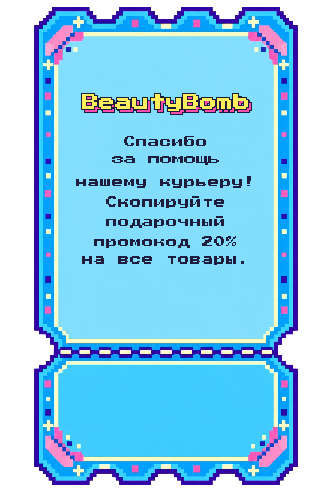
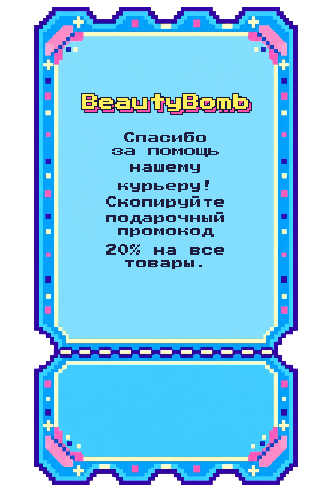
fix: narrow coupon information copy

Changed region(s): [[0.241, 0.4217, 0.7229, 0.5422], [0.2108, 0.2711, 0.753, 0.3916]]

diff --git a/scripts/build_reward_coupon_v7.py b/scripts/build_reward_coupon_v7.py
@@ -33,15 +33,17 @@ TITLE_FONT_SIZE_LOGICAL_PX = 17
 INFO_LINES = (
     "Спасибо",
     "за помощь",
-    "нашему курьеру!",
+    "нашему",
+    "курьеру!",
     "Скопируйте",
     "подарочный",
-    "промокод 20%",
-    "на все товары.",
+    "промокод",
+    "20% на все",
+    "товары.",
 )
-INFO_TOP_LOGICAL_PX = 136
+INFO_TOP_LOGICAL_PX = 132
 INFO_FONT_SIZE_LOGICAL_PX = 12
-INFO_LINE_HEIGHT_LOGICAL_PX = 20
+INFO_LINE_HEIGHT_LOGICAL_PX = 16
 
 PALETTE = {
     "violet": (30, 29, 62, 255),

diff --git a/docs/ASSET_MANIFEST.md b/docs/ASSET_MANIFEST.md
@@ -143,7 +143,7 @@ The owner approved `visual-references/ui-005-intro-composition-v1.png` and its a
 
 `DST-001`, `CHR-001`, and `CHR-003` retain separate immutable generated masters. The integrated recipient is `CHR-003` v1, built from the compact approved `112 × 176` master `visual-references/chr-003-lowpoly-recipient-master-v1.png`; `scripts/build_delivery_girl_lowpoly_v1.py` verifies its SHA-256 and performs one nearest-neighbor export to the final `28 × 44` canvas, avoiding repeated or fractional resizing. The previous `CHR-001` assets remain versioned in the repository and are not overwritten. The standalone house remains a design reference only. `ENV-009` v3 is derived by `scripts/build_delivery_destination_city_v3.py` from the immutable unified destination master `visual-references/env-009-delivery-destination-city-alpha-master-v2.png`; that master already contains the house as a complete city lot. The runtime export performs one nearest-neighbor resize, then copies the immediately adjacent approved curb sample into only the `42 × 6` doorstep interval with opaque alpha, so no sky-colored gap remains and no facade is regenerated. `UI-016` v5 is authored directly on its final pixel grid by `scripts/build_delivery_finale_ui_v5.py`; its existing tail geometry remains spatially aligned because `CHR-003` retains the approved `290,324` placement in this stage. The tail keeps the deep-violet outline and lavender interior but receives no pink shadow; the body retains its existing pink extrusion. `UI-017` remains the v1 three-frame sheet from `scripts/build_delivery_finale_ui_v1.py`. Both use the repository-local Press Start 2P source and no runtime font. `UI-018` v2 and its former live brand layer remain versioned for history but are no longer active. `PRD-003` is built by `scripts/build_delivery_product_v1.py` from the product region of the immutable `veh-001-courier-clean-concept-v7.png` master, not from a screenshot or runtime sprite. Finale timings, anchors, and depth ordering are adjacent in `src/game/content/deliveryFinale.json`.
 
-`UI-018` v7 retains the owner-supplied `1024 × 1536` JPEG and the v5 exterior-removal contract as immutable input. `scripts/build_reward_coupon_v7.py` writes a new binary-alpha master and one nearest-neighbor `332 × 498` runtime export: the coupon leaves `14 px` left/right and `71 px` top/bottom logical clearance at center `(180,320)`. Its `BeautyBomb` wordmark is redrawn at 17 px and the seven lines of explanatory Press Start 2P copy at 12 px, raising legibility without a runtime scale or second resize. The longest explanatory line is capped below `210 px`, keeping more than `60 px` of horizontal clearance from the coupon canvas. The live code row stays inside the lower tear-off as a `122 × 44` field at `(154,484)` and a `44 × 44` copy control at `(246,484)` with a `48 × 48` interaction target. Clipboard fallback, confirmation, trigger, and cleanup are unchanged.
+`UI-018` v7 retains the owner-supplied `1024 × 1536` JPEG and the v5 exterior-removal contract as immutable input. `scripts/build_reward_coupon_v7.py` writes a new binary-alpha master and one nearest-neighbor `332 × 498` runtime export: the coupon leaves `14 px` left/right and `71 px` top/bottom logical clearance at center `(180,320)`. Its `BeautyBomb` wordmark is redrawn at 17 px and the nine lines of explanatory Press Start 2P copy at 12 px, raising legibility without a runtime scale or second resize. The longest explanatory line is capped below `132 px`, keeping at least `100 px` of horizontal clearance from the coupon canvas. The live code row stays inside the lower tear-off as a `122 × 44` field at `(154,484)` and a `44 × 44` copy control at `(246,484)` with a `48 × 48` interaction target. Clipboard fallback, confirmation, trigger, and cleanup are unchanged.
 
 ## Batch F — later prize system
 

diff --git a/docs/DECISIONS.md b/docs/DECISIONS.md
@@ -99,7 +99,7 @@ Keep this file short. Record only decisions that change product behavior, archit
 | D-072 | Replace the unrendered pixel exit asset with a simple adaptive close placeholder. | The retained `UI-011` texture is intentionally not loaded. A direct HTML/CSS control draws only an anti-aliased red `×` with a thin black outline at logical center `28,32`; it has no panel, shadow, animation, or exit-side effect. Its independent transparent logical `44 × 44` hit target scales with the FIT canvas for touch and pointer use, stays clear of the title and pause control, remains visible in every scene state, and cannot alter the ready, pause, finale, or reward flows. |
 | D-073 | Replace the courier tube's threaded cap with a versioned flip-top master and derive every live product variant from it. | Immutable `v7` remains untouched. `v8` replaces only the former rear cap region with a broad one-piece white flip-top, a direct tube seam, hinge line, and recessed thumb-lift. Static `v6`, drive `v7`, intro idle `v2`, and transfer product `PRD-003 v2` use only that master with their existing canvas, origin, collider, frame cadence, and one nearest-neighbor export contracts preserved. |
 | D-074 | Fit the complete portrait game into the actual browser viewport and overscan the lower cobblestone by two clipped pixels. | The host CSS now sizes the fixed `9:16` canvas from the smaller of its `360 px` maximum, available width, and available height less its `12 px` surround, so desktop zoom and mobile browser chrome cannot crop controls. `ENV-010` retains its `y=520` top edge and `2 px` road overlap but renders `122 px` high; its final `2 px` are clipped below `y=640`, removing the rounding gap without moving road, buttons, or input targets. |
-| D-075 | Enlarge the reward coupon and its internal hierarchy for readable final-screen copy. | `UI-018` v7 is a new `332 × 498` native coupon at the unchanged logical center `(180,320)`, retaining `14 px` horizontal and `71 px` vertical screen clearance. Its wordmark rises from 15 to 17 px and the black explanatory Press Start 2P copy from 9 to 12 px in the versioned source build. The message uses seven centered lines with a maximum width below 210 px, then completes one nearest-neighbor export. The lower tear-off keeps its same code/copy behavior but increases to a `122 × 44` code field, a `44 × 44` copy visual, and a `48 × 48` touch target. |
+| D-075 | Enlarge the reward coupon and its internal hierarchy for readable final-screen copy. | `UI-018` v7 is a new `332 × 498` native coupon at the unchanged logical center `(180,320)`, retaining `14 px` horizontal and `71 px` vertical screen clearance. Its wordmark rises from 15 to 17 px and the black explanatory Press Start 2P copy from 9 to 12 px in the versioned source build. The message uses nine centered lines with a maximum width below 132 px, then completes one nearest-neighbor export. The lower tear-off keeps its same code/copy behavior but increases to a `122 × 44` code field, a `44 × 44` copy visual, and a `48 × 48` touch target. |
 
 ## Open production questions
 
